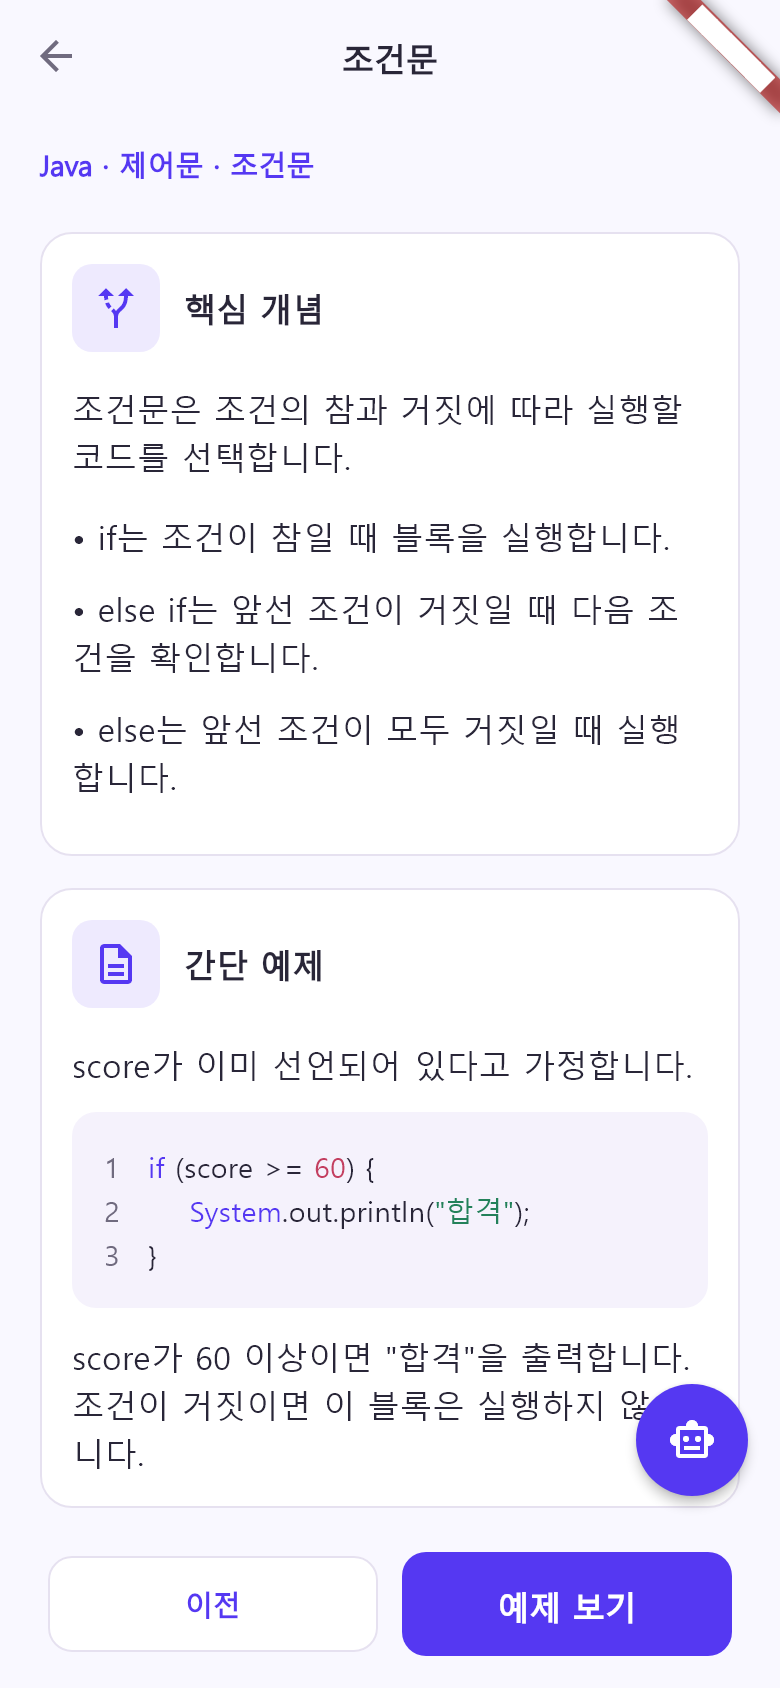
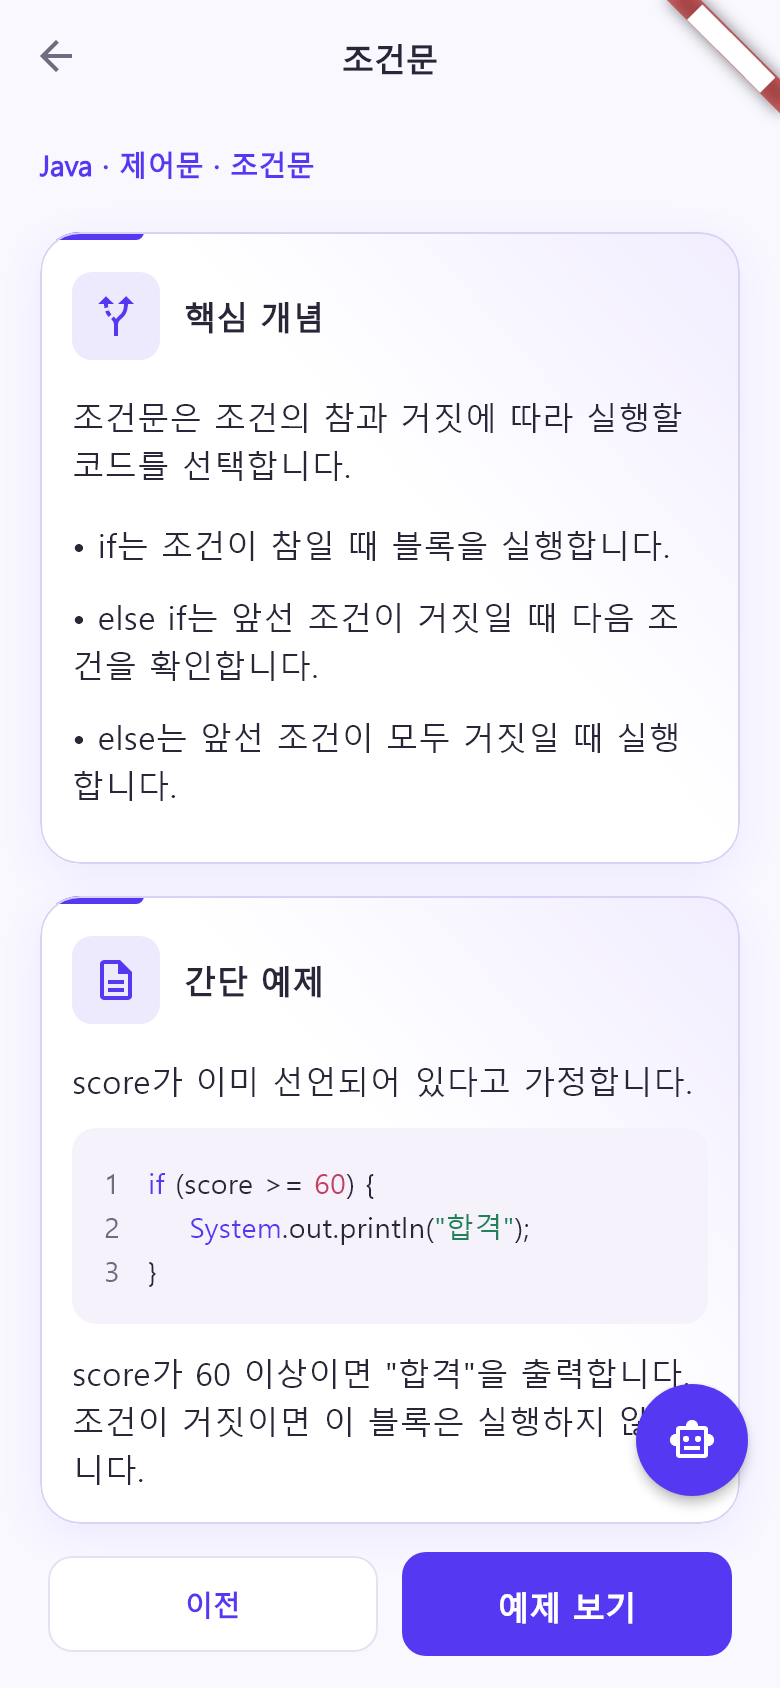
style: 문법 상세 내용 카드 장식 개선

diff --git a/lib/features/grammar/presentation/lesson_widgets.dart b/lib/features/grammar/presentation/lesson_widgets.dart
@@ -1,3 +1,4 @@
+import '../../../app/widgets/learning_card.dart';
 import '../../../app/app_ui_tokens.dart';
 
 import 'package:flutter/material.dart';
@@ -16,14 +17,7 @@ class LessonCard extends StatelessWidget {
 
   @override
   Widget build(BuildContext context) {
-    return Card(
-      color: Colors.white,
-      elevation: 0,
-      margin: EdgeInsets.zero,
-      shape: RoundedRectangleBorder(
-        borderRadius: BorderRadius.circular(AppRadii.card),
-        side: const BorderSide(color: AppColors.border),
-      ),
+    return LearningCard(
       child: Padding(
         padding: const EdgeInsets.all(16),
         child: Column(
